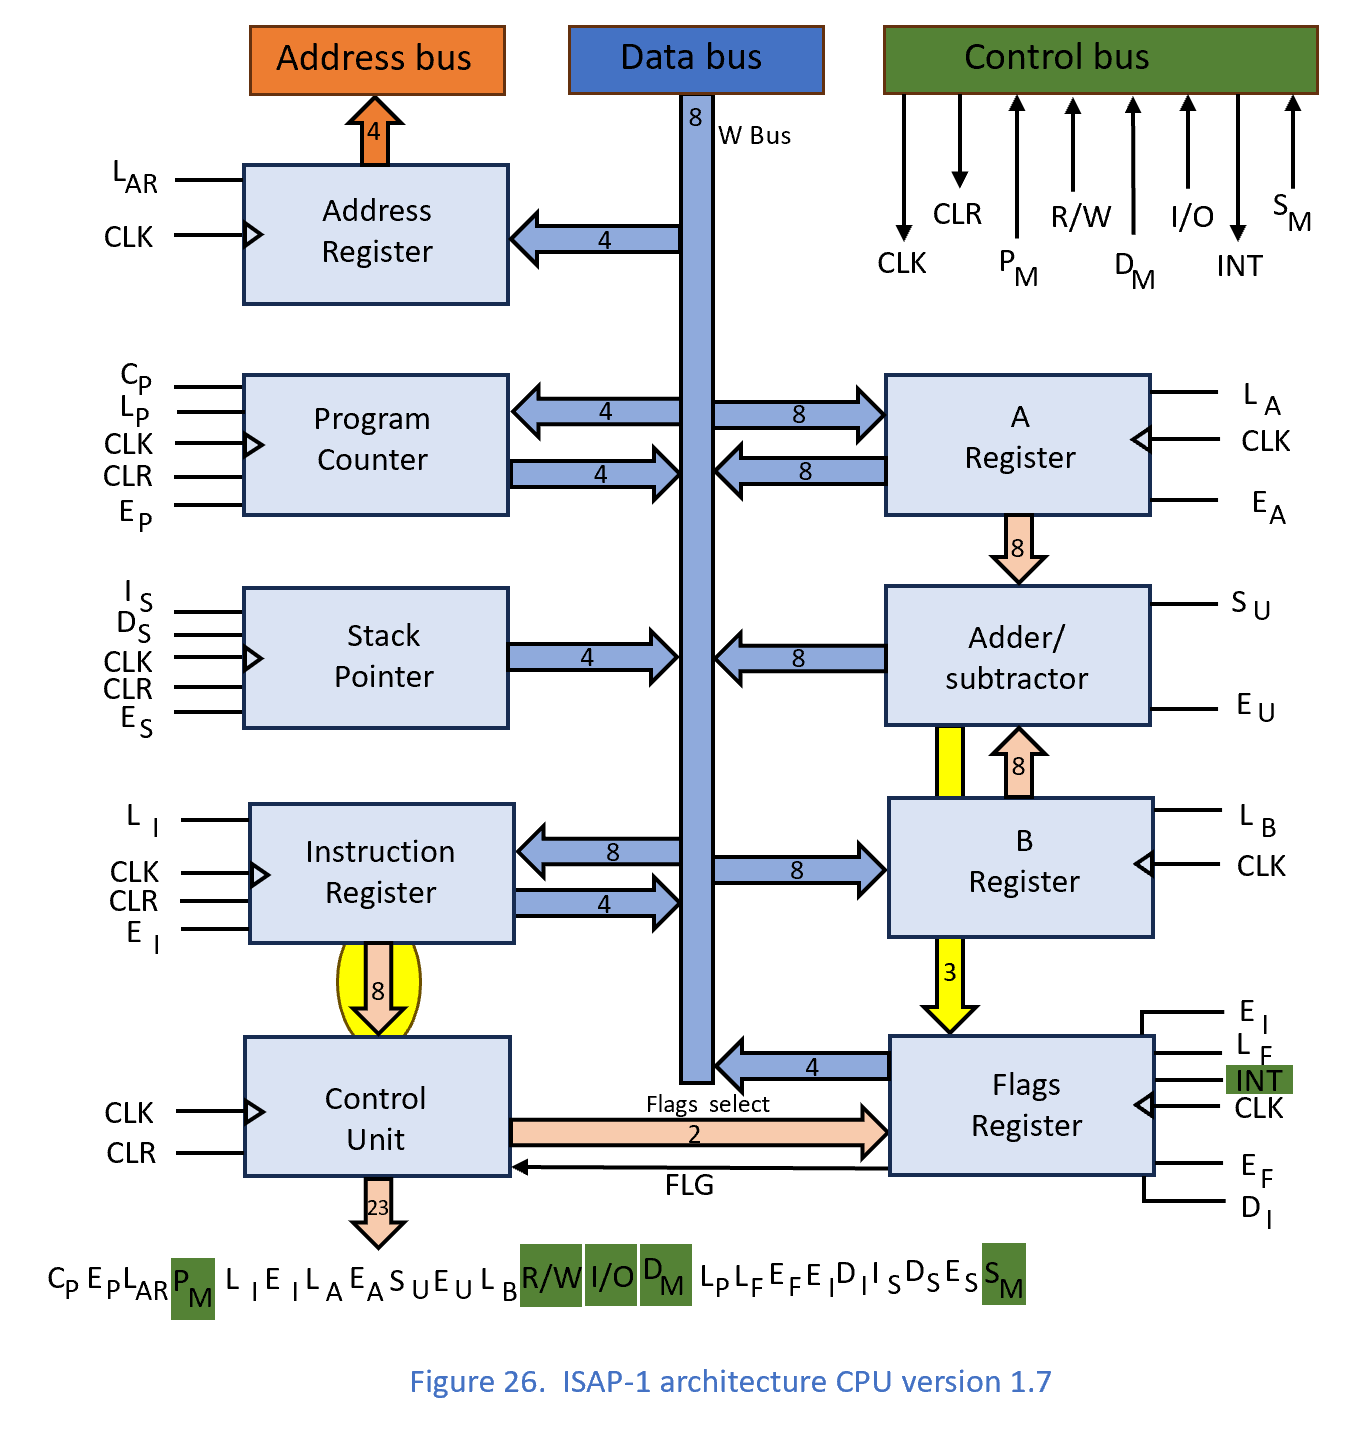
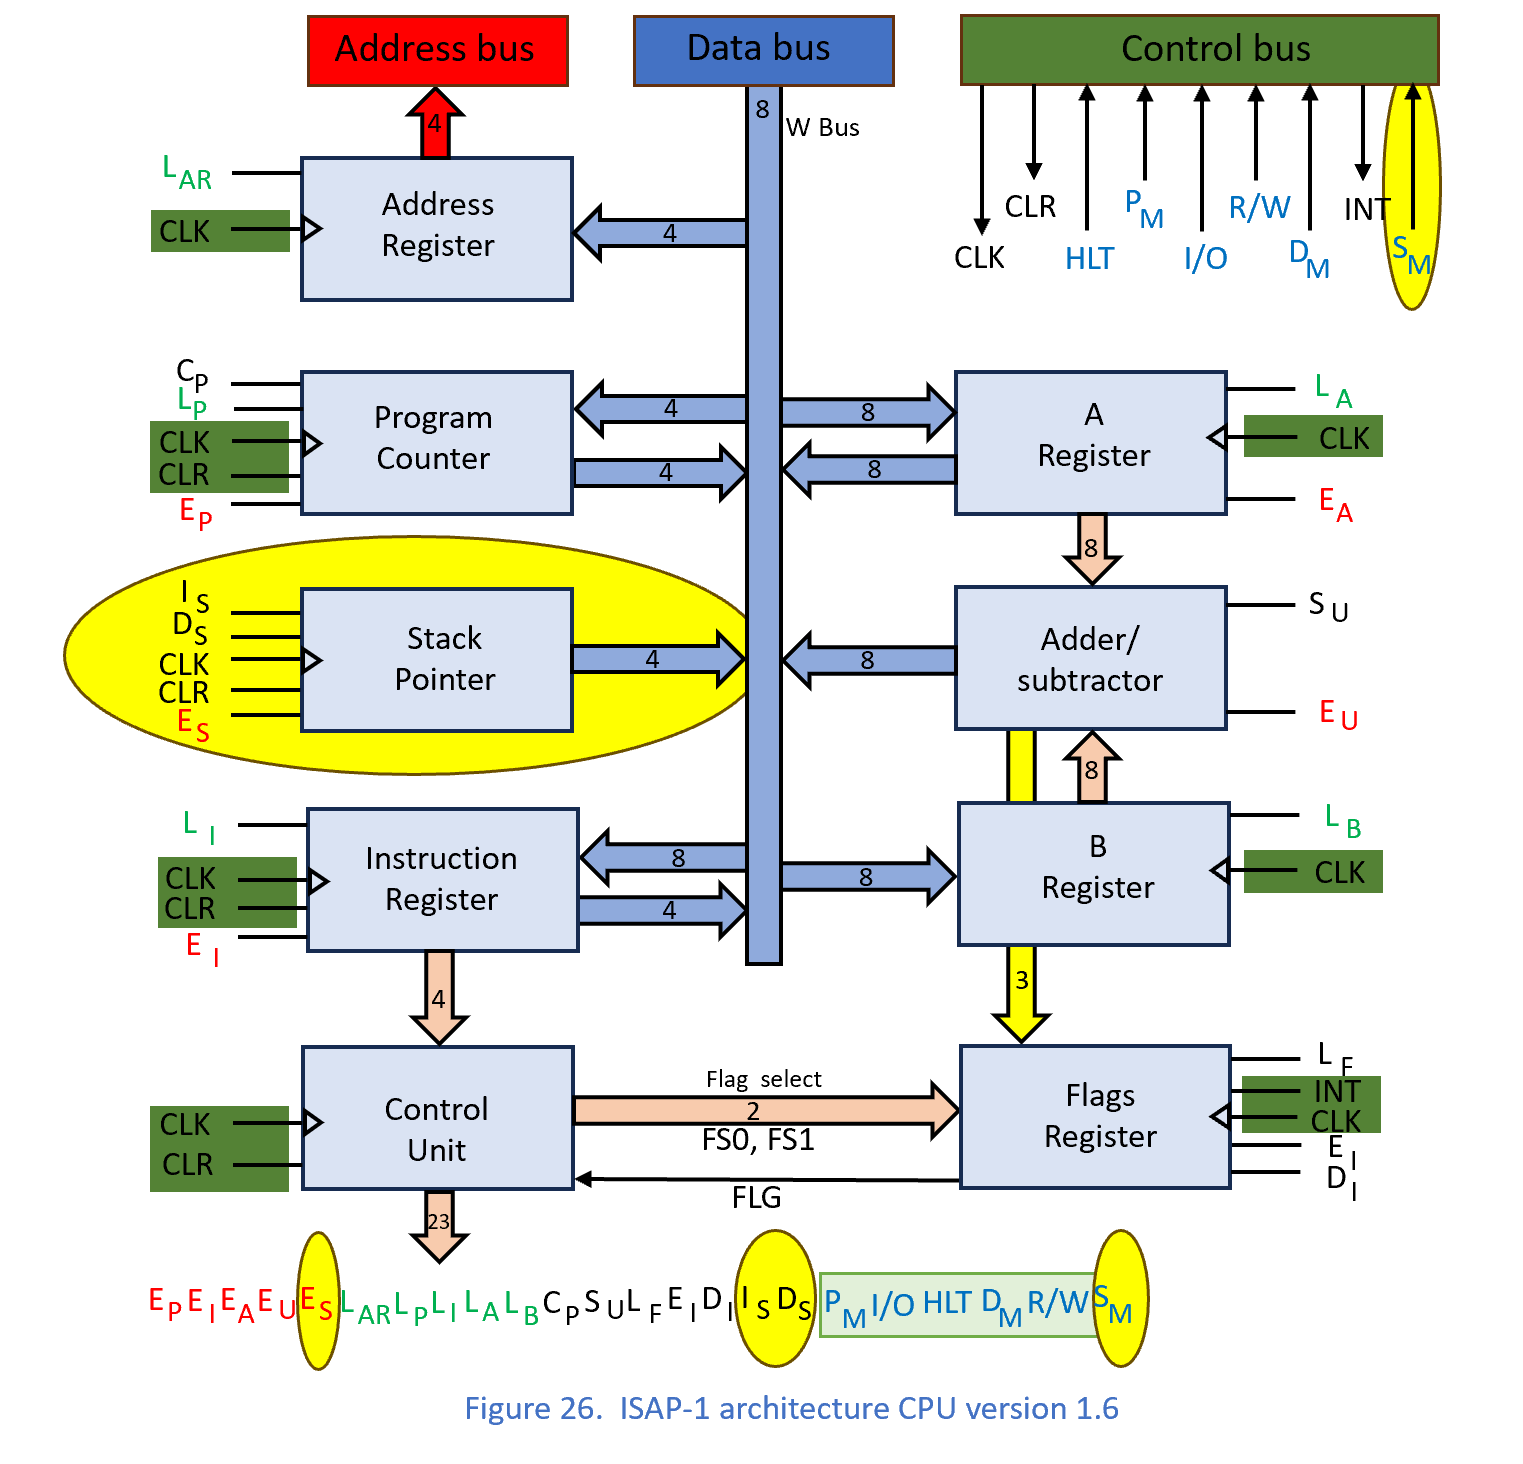
modified:   Pictures/Figure26.png

Changed region(s): [[0.0306, 0.0, 0.9803, 0.9832], [0.7352, 0.1844, 0.7659, 0.2151]]

diff --git a/README.md b/README.md
@@ -288,13 +288,13 @@ The new Instruction Set is:
 
 | Mnemonic | Opcode | Operation                                                                 |
 |----------|--------|---------------------------------------------------------------------------|
-| LDA      | 0000   | Load RAM data into Accumulator                                            |
-| ADD      | 0001   | Add RAM data to Accumulator                                               |
-| SUB      | 0010   | Substract RAM data from Accumulator                                       |
-| STA      | 0011   | Stores the numeric value from the Accumulator at the given memory address |
-| JMP      | 0100   | Unconditional jump to the given address                                   |
-| IN       | 1101   | Loads the numeric value given by an input port into the Accumulator       |
-| OUT      | 1110   | Load Accumulator data into Output device                                  |
+| LDA n    | 0000   | Load RAM data into Accumulator                                            |
+| ADD n    | 0001   | Add RAM data to Accumulator                                               |
+| SUB n    | 0010   | Substract RAM data from Accumulator                                       |
+| STA n    | 0011   | Stores the numeric value from the Accumulator at the given memory address |
+| JMP n    | 0100   | Unconditional jump to the given address                                   |
+| IN n     | 1101   | Loads the numeric value given by an input port into the Accumulator       |
+| OUT n    | 1110   | Load Accumulator data into Output device                                  |
 | HLT      | 1111   | Stop processing                                                           |
 
 ## Improving system design by adding Flags
@@ -363,17 +363,17 @@ The new Instruction Set is:
 
 | Mnemonic | Opcode | Operation                                                                     |
 |----------|--------|-------------------------------------------------------------------------------|
-| LDA      | 0000   | Load RAM data into Accumulator                                                |
-| ADD      | 0001   | Add RAM data to Accumulator                                                   |
-| SUB      | 0010   | Substract RAM data from Accumulator                                           |
-| STA      | 0011   | Stores the numeric value from the Accumulator at the given memory address     |
-| JMP      | 0100   | Unconditional jump to the given address                                       |
-| JC       | 0101   | Jump if Carry Flag is set to the given address                                |
-| JZ       | 0110   | Jump if Zero Flag is set to the given address                                 |
-| JS       | 0111   | Jump if Sign Flag is set to the given address                                 |
-| CMP      | 1000   | Compares a numeric value in memory with the numeric value in the accumulator  |
-| IN       | 1101   | Loads the numeric value given by an input port into the Accumulator           |
-| OUT      | 1110   | Load Accumulator data into Output device                                      |
+| LDA n    | 0000   | Load RAM data into Accumulator                                                |
+| ADD n    | 0001   | Add RAM data to Accumulator                                                   |
+| SUB n    | 0010   | Substract RAM data from Accumulator                                           |
+| STA n    | 0011   | Stores the numeric value from the Accumulator at the given memory address     |
+| JMP n    | 0100   | Unconditional jump to the given address                                       |
+| JC n     | 0101   | Jump if Carry Flag is set to the given address                                |
+| JZ n     | 0110   | Jump if Zero Flag is set to the given address                                 |
+| JS n     | 0111   | Jump if Sign Flag is set to the given address                                 |
+| CMP n    | 1000   | Compares a numeric value in memory with the numeric value in the accumulator  |
+| IN n     | 1101   | Loads the numeric value given by an input port into the Accumulator           |
+| OUT n    | 1110   | Load Accumulator data into Output device                                      |
 | HLT      | 1111   | Stop processing                                                               |
 
 ## Improving the system design by adding the Interrupt System
@@ -403,29 +403,29 @@ To allow working with input-output devices that do not act on the INT control si
 
 ![ Figure 25 ](/Pictures/Figure25.png)
 
-Now we will have 21 control signals that must be provided by the Control Block.
+Now we will have 19 control signals that must be provided by the Control Block.
 
 The new Instruction Set is:
 
 | Mnemonic | Opcode | Operation                                                                     |
 |----------|--------|-------------------------------------------------------------------------------|
-| LDA      | 0000   | Load RAM data into Accumulator                                                |
-| ADD      | 0001   | Add RAM data to Accumulator                                                   |
-| SUB      | 0010   | Substract RAM data from Accumulator                                           |
-| STA      | 0011   | Stores the numeric value from the Accumulator at the given memory address     |
-| JMP      | 0100   | Unconditional jump to the given address                                       |
-| JC       | 0101   | Jump if Carry Flag is set to the given address                                |
-| JZ       | 0110   | Jump if Zero Flag is set to the given address                                 |
-| JS       | 0111   | Jump if Sign Flag is set to the given address                                 |
-| CMP      | 1000   | Compares a numeric value in memory with the numeric value in the accumulator  |
+| LDA n    | 0000   | Load RAM data into Accumulator                                                |
+| ADD n    | 0001   | Add RAM data to Accumulator                                                   |
+| SUB n    | 0010   | Substract RAM data from Accumulator                                           |
+| STA n    | 0011   | Stores the numeric value from the Accumulator at the given memory address     |
+| JMP n    | 0100   | Unconditional jump to the given address                                       |
+| JC n     | 0101   | Jump if Carry Flag is set to the given address                                |
+| JZ n     | 0110   | Jump if Zero Flag is set to the given address                                 |
+| JS n     | 0111   | Jump if Sign Flag is set to the given address                                 |
+| CMP n    | 1000   | Compares a numeric value in memory with the numeric value in the accumulator  |
 | EI       | 1001   | Enable interrupts                                                             |
 | DI       | 1010   | Disable interrupts                                                            |
-| IN       | 1101   | Loads the numeric value given by an input port into the Accumulator           |
-| OUT      | 1110   | Load Accumulator data into Output device                                      |
+| IN n     | 1101   | Loads the numeric value given by an input port into the Accumulator           |
+| OUT n    | 1110   | Load Accumulator data into Output device                                      |
 | HLT      | 1111   | Stop processing                                                               |
 
 ## Improved system design by adding Stack
-I decided to add operations with the stack of this computer. This way I can implement subroutine calling as the first benefit. The stack also provides the ability to store data temporarily.
+I decided to add operations with the Stack of this computer. This way I can implement subroutine calling as the first benefit. The stack also provides the ability to store data temporarily.
 
 I will use a 4-bit register for the stack, since the address is 4 bits. This register must be incrementable as well as decrementable.
 
@@ -433,7 +433,7 @@ For this purpose we can use a counter. It must be able to be incremented but als
 
 The Block Diagram of the system that has implemented the Stack Pointer is shown in the following figure.
 
-![ Figure 24 ](/Pictures/Figure24.png)
+![ Figure 26 ](/Pictures/Figure26.png)
 
 Now we will have 25 command signals that must be provided by the Control Block.
 
